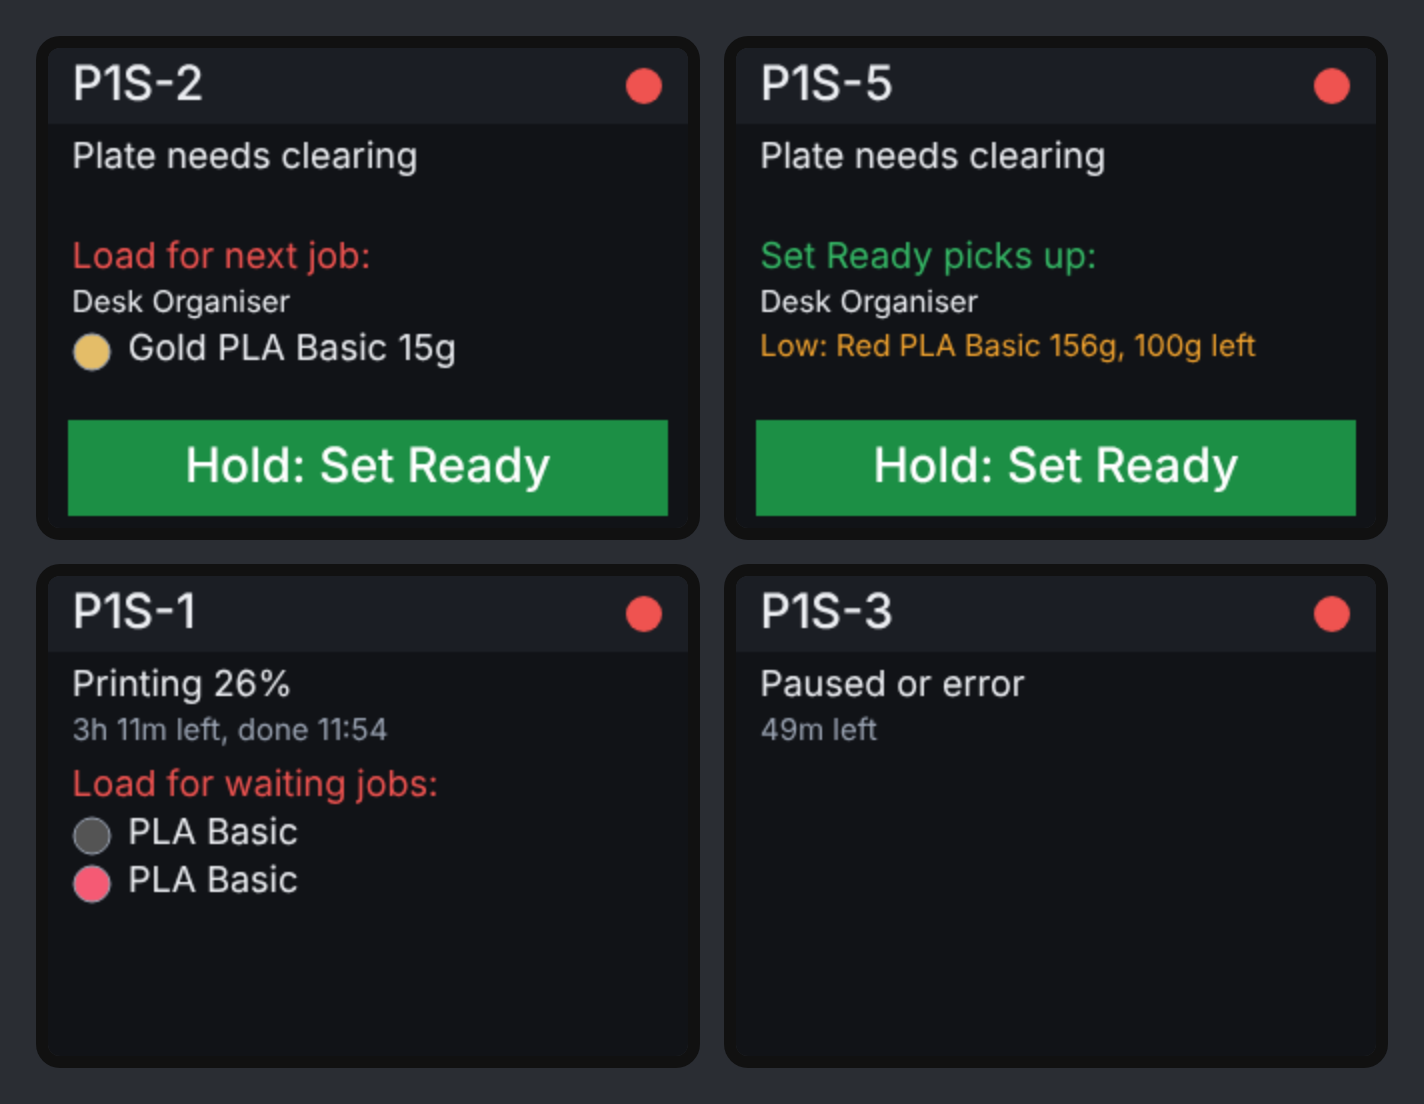
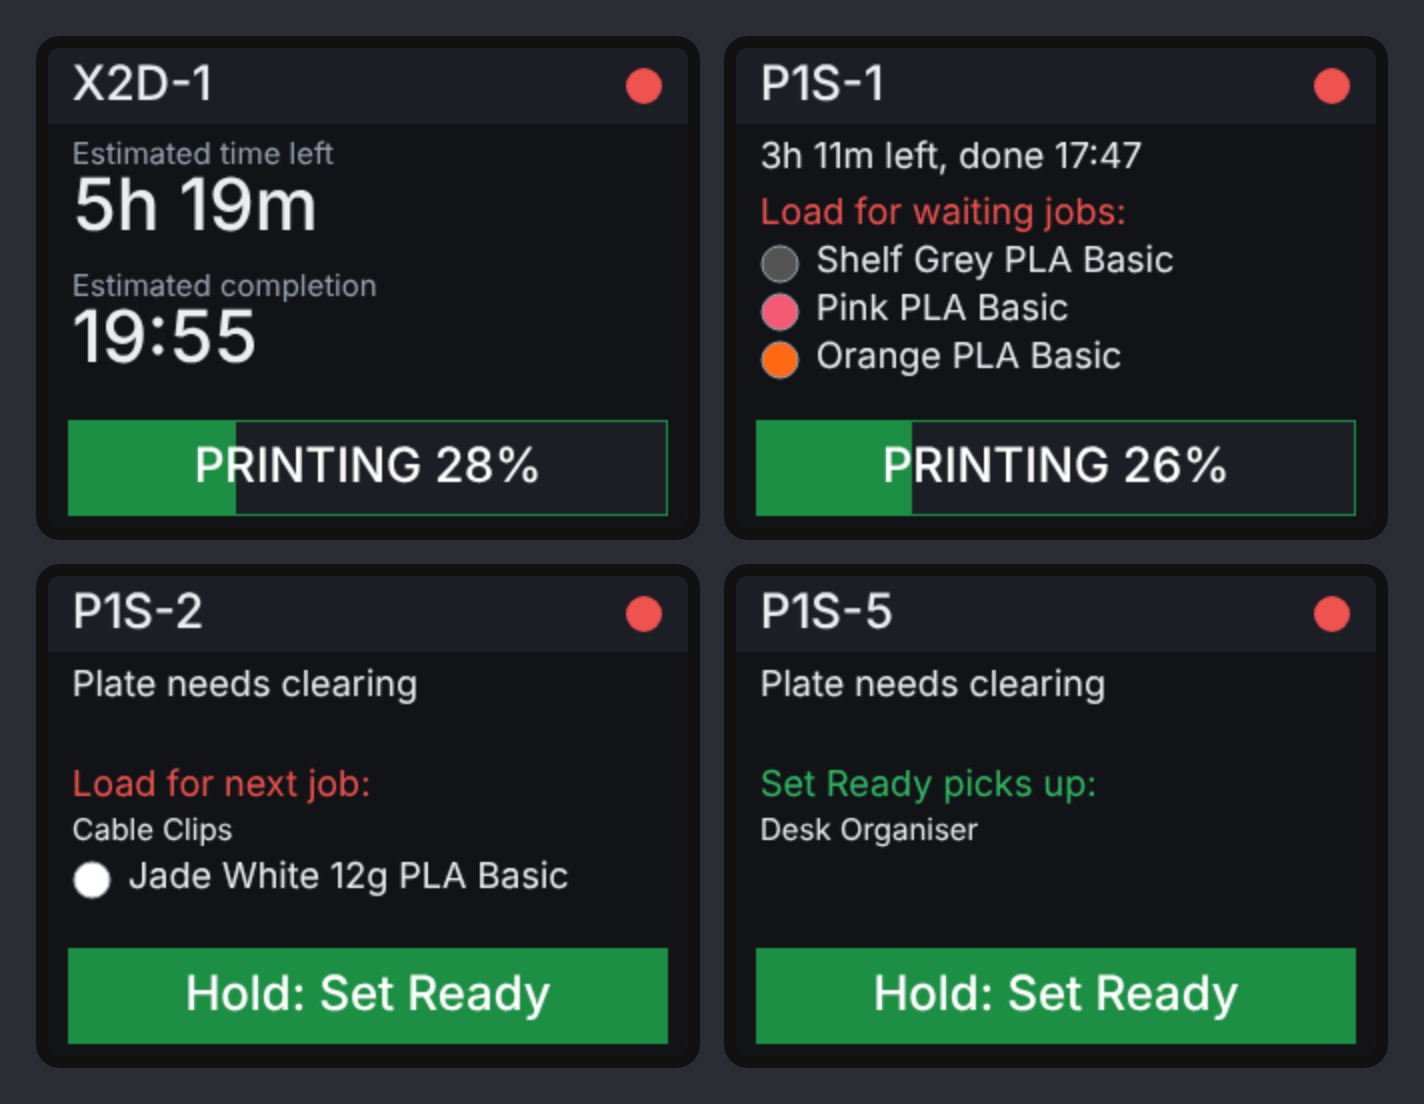
Display: bigger printing screen with a progress bar, flipped orientation, touch marker
While printing with nothing to load, the display now shows the estimated
time left and completion time in large type, and the bottom bar becomes a
progress bar ('PRINTING 28%') filled in green. The summary gains pct, left
and done fields. The picture is rotated 180 degrees (rotation 270) with the
touch transform flipped to match, and a ring is drawn briefly where the
screen was touched so misaligned touch is visible. Progress from Watchtower
is treated as 0-100 on the page too.

diff --git a/index.html b/index.html
@@ -431,7 +431,7 @@ function render(printers) {
     c.el.querySelector('.model').textContent = p.model || '';
     let label = LABEL[state][0];
     if (state === 'printing' && typeof p.progress === 'number')
-      label += ' ' + Math.round(p.progress <= 1 ? p.progress * 100 : p.progress) + '%';
+      label += ' ' + Math.round(p.progress) + '%';        // Watchtower reports 0-100
     c.el.querySelector('.label').textContent = label;
     c.el.querySelector('.eta').textContent =
       state === 'printing' ? etaText(p, true) : state === 'paused' ? etaText(p, false) : '';

diff --git a/server.py b/server.py
@@ -996,7 +996,8 @@ def _fil_text(f):
 def display_summary(name):
     """Everything a printer's display shows, already worded and trimmed for a small screen."""
     out = {"title": name, "state": "unknown", "status": "", "sub": "", "head": "", "good": False,
-           "job": "", "fil": [], "warn": "", "button": ""}
+           "job": "", "fil": [], "warn": "", "button": "",
+           "pct": -1, "left": "", "done": ""}             # progress bar and big times
     printers, err = printers_cached()
     p = next((x for x in printers if x.get("name") == name), None)
     if p is None:
@@ -1005,14 +1006,16 @@ def display_summary(name):
     state = printer_state(p)
     out["state"], out["status"] = state, STATUS_TEXT[state]
     if state == "printing" and isinstance(p.get("progress"), (int, float)):
-        pct = p["progress"] * 100 if p["progress"] <= 1 else p["progress"]
-        out["status"] += " %d%%" % round(pct)
+        out["pct"] = max(0, min(100, round(p["progress"])))   # Watchtower reports 0-100
+        out["status"] += " %d%%" % out["pct"]
     mins = p.get("eta_minutes")
     if state in ("printing", "paused") and isinstance(mins, (int, float)) and mins >= 0:
         mins = round(mins)
-        out["sub"] = ("%dh %dm left" % divmod(mins, 60)) if mins >= 60 else "%dm left" % mins
+        out["left"] = ("%dh %dm" % divmod(mins, 60)) if mins >= 60 else "%dm" % mins
+        out["sub"] = out["left"] + " left"
         if state == "printing":
-            out["sub"] += time.strftime(", done %H:%M", time.localtime(time.time() + mins * 60))
+            out["done"] = time.strftime("%H:%M", time.localtime(time.time() + mins * 60))
+            out["sub"] += ", done " + out["done"]
     if state == "plate":
         out["button"] = "SET READY"
 

diff --git a/display/README.md b/display/README.md
@@ -3,7 +3,7 @@
 A small touch screen for the front of one printer. It shows the printer's state, what
 filament to load for the next waiting job, and a **Set Ready** button.
 
-![Four example screens: load a filament, Set Ready picks up a job with a low-filament warning, printing, and paused](../docs/display-preview.png)
+![Four example screens: printing with time left and a progress bar, printing with filament to load, load a filament before Set Ready, and Set Ready picks up a job](../docs/display-preview.png)
 
 *Mock-up of the layout with sample data.*
 
@@ -81,7 +81,11 @@ only making one.
 
 - **Top bar:** the printer's name and a dot: green when ready, red when printing, paused
   or waiting to be cleared, amber when offline.
-- **Status:** e.g. "Printing 26%", with time left and finish time.
+- **While printing:** the estimated time left and the estimated completion time in
+  large type, and a bar along the bottom reading "PRINTING 28%" that fills with green
+  as the print goes on. If there is filament to load for a waiting job, the times shrink
+  to one line to make room for it.
+- **Otherwise, a status line:** e.g. "Plate needs clearing" or "Paused or error".
 - **Advice:**
   - "Load for next job:" with the job and the filament to load, each with a colour dot.
   - "Set Ready picks up:" with the job, when the loaded filament already covers one.
@@ -108,13 +112,16 @@ It asks the server every 10 seconds.
 type. Flash one of the other two files listed under "Flash the board". Flashing again
 keeps the Wi-Fi, server and token already entered.
 
-**Upside down.** Build it yourself with `rotation: "270"` at the top of
-`printer-display.yaml` (the published files use 90).
+**Upside down.** The published files are built with `rotation: "270"`. For the other
+way up, build it yourself with `rotation: "90"` and both `touch_mirror_x` and
+`touch_mirror_y` set to `"false"` at the top of `printer-display.yaml`.
 
-**Touch calibration.** If the button doesn't respond where it is drawn, flip `mirror_x`
-or `mirror_y` under the touchscreen's `transform` first. For fine tuning, watch the log
-(`esphome logs printer-display.yaml`, or the **Logs** button on web.esphome.io) while pressing the corners and adjust the `calibration`
-numbers to the raw values it reports.
+**Touch calibration.** Wherever you touch the screen, a small white ring appears for a
+moment at the spot the board thinks you touched. If the ring is somewhere else, the touch
+settings need adjusting: flip `touch_mirror_x` or `touch_mirror_y` at the top of
+`printer-display.yaml` if it is mirrored. For fine tuning, the board's own page shows a
+log line for each touch with the raw values; adjust the `calibration` numbers to match
+the corners.
 
 ## Who can change a board's settings
 
